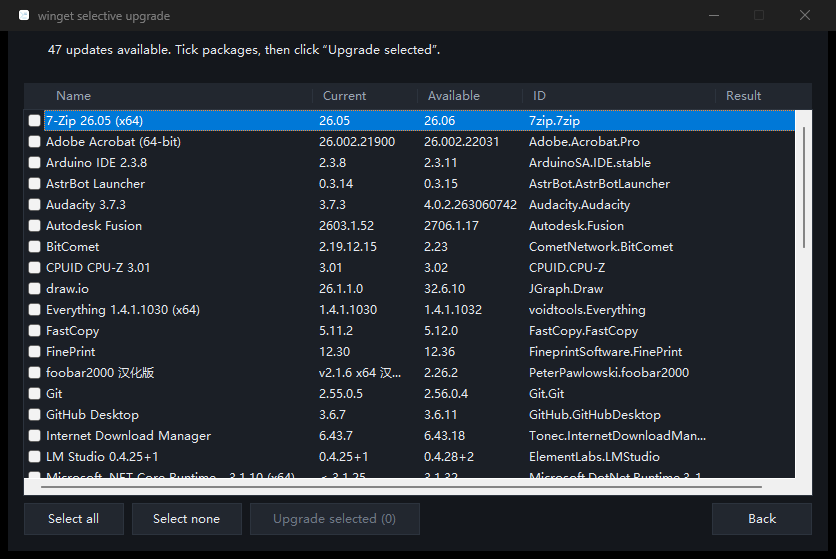
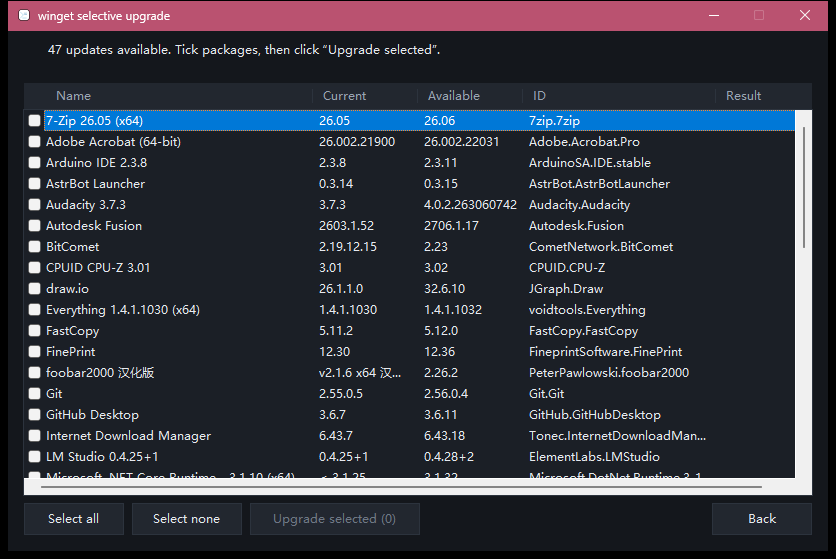
fix(ui): 设置区改 2x2 布局，修复主题重绘与升级后转圈残留

Changed region(s): [[0.0, 0.0, 1.0, 0.0608]]

diff --git a/src/main.rs b/src/main.rs
@@ -2248,13 +2248,16 @@ impl App {
             BS_PUSHBUTTON | WS_TABSTOP, 0, s(704), s(472), s(100), s(32), ID_BACK, font,
         );
 
-        // 设置区：主题分段按钮（只在初始界面显示）
+        // 设置区：2×2 表格。第一列靠左，第二列在右半区内居中。
+        let row1_y = s(400);
+        let row2_y = s(436);
+        let ctl_h = s(26);
+        let left_x = s(40);
+
+        // 第一列第一行：主题
         let theme_widths = [s(84), s(60), s(60), s(86), s(86)];
         let theme_gap = s(6);
-        let theme_label_w = s(56);
-        let theme_total: i32 =
-            theme_widths.iter().sum::<i32>() + theme_gap * 4 + theme_label_w + s(8);
-        let mut theme_x = (s(820) - theme_total) / 2;
+        let theme_label_w = s(72);
         let theme_label = make_child(
             hwnd,
             instance,
@@ -2262,14 +2265,14 @@ impl App {
             lang::t().theme_label,
             SS_LEFT | SS_NOPREFIX,
             0,
-            theme_x,
-            s(400),
+            left_x,
+            row1_y,
             theme_label_w,
-            s(26),
+            ctl_h,
             ID_THEME_LABEL,
             font,
         );
-        theme_x += theme_label_w + s(8);
+        let mut theme_x = left_x + theme_label_w + s(8);
         let mut theme_btns: [HWND; 5] = [std::ptr::null_mut(); 5];
         for (i, _choice) in theme::CHOICES.iter().enumerate() {
             theme_btns[i] = make_child(
@@ -2280,28 +2283,19 @@ impl App {
                 WS_TABSTOP,
                 0,
                 theme_x,
-                s(400),
+                row1_y,
                 theme_widths[i],
-                s(26),
+                ctl_h,
                 ID_THEME_BASE + i as i32,
                 font,
             );
             theme_x += theme_widths[i] + theme_gap;
         }
 
-        // 设置区第二行：语言 + 静默升级 + 关于（整行居中）
+        // 第一列第二行：语言
         let lang_widths = [s(90), s(64), s(80)];
         let lang_gap = s(6);
         let lang_label_w = s(72);
-        let silent_btn_w = s(48);
-        let silent_label_w = s(84);
-        let about_w = s(100);
-        let row_gap = s(24);
-        let lang_group =
-            lang_label_w + s(8) + lang_widths.iter().sum::<i32>() + lang_gap * 2;
-        let silent_group = silent_label_w + s(8) + silent_btn_w * 2 + lang_gap;
-        let row_total = lang_group + row_gap + silent_group + s(16) + about_w;
-        let mut row_x = (s(820) - row_total) / 2;
         let lang_label = make_child(
             hwnd,
             instance,
@@ -2309,14 +2303,14 @@ impl App {
             lang::t().lang_label,
             SS_LEFT | SS_NOPREFIX,
             0,
-            row_x,
-            s(436),
+            left_x,
+            row2_y,
             lang_label_w,
-            s(26),
+            ctl_h,
             ID_LANG_LABEL,
             font,
         );
-        row_x += lang_label_w + s(8);
+        let mut lang_x = left_x + lang_label_w + s(8);
         let mut lang_btns: [HWND; 3] = [std::ptr::null_mut(); 3];
         for (i, text) in lang::t().lang_labels.iter().enumerate() {
             lang_btns[i] = make_child(
@@ -2326,19 +2320,29 @@ impl App {
                 text,
                 WS_TABSTOP,
                 0,
-                row_x,
-                s(436),
+                lang_x,
+                row2_y,
                 lang_widths[i],
-                s(26),
+                ctl_h,
                 ID_LANG_BASE + i as i32,
                 font,
             );
-            row_x += lang_widths[i];
+            lang_x += lang_widths[i];
             if i + 1 < lang_widths.len() {
-                row_x += lang_gap;
+                lang_x += lang_gap;
             }
         }
-        row_x += row_gap;
+
+        // 第二列所在区域：右半区
+        let col2_left = s(552);
+        let col2_right = s(804);
+        let col2_w = col2_right - col2_left;
+
+        // 第二列第一行：静默升级
+        let silent_btn_w = s(48);
+        let silent_label_w = s(56);
+        let silent_group_w = silent_label_w + s(8) + silent_btn_w * 2 + lang_gap;
+        let silent_x = col2_left + (col2_w - silent_group_w) / 2;
         let silent_label = make_child(
             hwnd,
             instance,
@@ -2346,14 +2350,14 @@ impl App {
             lang::t().silent_label,
             SS_LEFT | SS_NOPREFIX,
             0,
-            row_x,
-            s(436),
+            silent_x,
+            row1_y,
             silent_label_w,
-            s(26),
+            ctl_h,
             ID_SILENT_LABEL,
             font,
         );
-        row_x += silent_label_w + s(8);
+        let silent_buttons_x = silent_x + silent_label_w + s(8);
         let silent_btns: [HWND; 2] = [
             make_child(
                 hwnd,
@@ -2362,10 +2366,10 @@ impl App {
                 lang::t().silent_off,
                 WS_TABSTOP,
                 0,
-                row_x,
-                s(436),
+                silent_buttons_x,
+                row1_y,
                 silent_btn_w,
-                s(26),
+                ctl_h,
                 ID_SILENT_OFF,
                 font,
             ),
@@ -2376,15 +2380,18 @@ impl App {
                 lang::t().silent_on,
                 WS_TABSTOP,
                 0,
-                row_x + silent_btn_w + lang_gap,
-                s(436),
+                silent_buttons_x + silent_btn_w + lang_gap,
+                row1_y,
                 silent_btn_w,
-                s(26),
+                ctl_h,
                 ID_SILENT_ON,
                 font,
             ),
         ];
-        row_x += silent_btn_w * 2 + lang_gap + s(16);
+
+        // 第二列第二行：关于
+        let about_w = s(100);
+        let about_x = col2_left + (col2_w - about_w) / 2;
         let btn_about = make_child(
             hwnd,
             instance,
@@ -2392,10 +2399,10 @@ impl App {
             lang::t().about,
             WS_TABSTOP,
             0,
-            row_x,
-            s(436),
+            about_x,
+            row2_y,
             about_w,
-            s(26),
+            ctl_h,
             ID_ABOUT,
             font,
         );
@@ -2513,7 +2520,21 @@ impl App {
             self.title,
             self.subtitle,
             self.status,
+            self.progress,
             self.theme_label,
+            self.theme_btns[0],
+            self.theme_btns[1],
+            self.theme_btns[2],
+            self.theme_btns[3],
+            self.theme_btns[4],
+            self.lang_label,
+            self.lang_btns[0],
+            self.lang_btns[1],
+            self.lang_btns[2],
+            self.silent_label,
+            self.silent_btns[0],
+            self.silent_btns[1],
+            self.btn_about,
             self.btn_view,
             self.btn_exit,
             self.btn_all,
@@ -2718,6 +2739,11 @@ impl App {
         }
         show(self.btn_about, init);
         enable(self.btn_about, init);
+        // 阶段切换时清掉残留的转圈像素（尤其是升级结束回到初始界面）
+        unsafe {
+            let rc = self.spinner_rect;
+            InvalidateRect(self.hwnd, &rc, 1);
+        }
         // 升级期间列表保持可用：可以滚动/查看进度，只是勾选会被锁定
         enable(self.list, list_mode || upgrading);
         enable(self.btn_all, list_mode);

diff --git a/src/lang.rs b/src/lang.rs
@@ -158,7 +158,7 @@ pub const EN: Strings = Strings {
     about_data: "Data comes from your local winget. The app has no network access and collects no data.",
     about_license: "License: MIT © 2026 LatteMint",
     about_close: "Close",
-    silent_label: "Silent mode",
+    silent_label: "Silent",
     silent_off: "Off",
     silent_on: "On",
     silent_warning: "Silent upgrade is on.\n\nSome installers may still show their own window, and UAC prompts cannot be skipped when administrator rights are required.\nIf a silent upgrade fails, it will be retried normally.\n\nContinue upgrading the {n} selected package(s)?",

diff --git a/docs/plan-v0.2.md b/docs/plan-v0.2.md
@@ -135,12 +135,23 @@
   致谢写入 `Code by Deepseek v4.1 Flash (1017)`；旧 README 备份为 `README.v0.1-backup.md` 并加入 `.gitignore`；
 - README 按 `lieflat-less-ai-tone` 流程检测：脚本层 + 语义层 12 条候选判读，语义四项均低于门槛；
   按建议拆了 4 处句内分号（L37/L105/L147/L149），其余 X 级清单/顿号清单/结构指标按规则保留；
-- 最终 exe：346,624 B（约 339 KiB），版本 0.2.0.0；桌面 `winget-picker.exe` 与 `dist/winget-picker.exe` 已更新；
+- 最终 exe：347,136 B（约 339 KiB），版本 0.2.0.0；桌面 `winget-picker.exe` 与 `dist/winget-picker.exe` 已更新；
 - 发布包：`dist/winget-picker-0.2.0-win64.zip`（exe + README + LICENSE）；
 - 真实 winget 最终验证：25 个可更新项正常列出（`screens-real/`）；真实升级未执行；
 - 最终回归：假 winget 全流程 / 升级中 UI / 主题 / 语言 / 静默升级 / Spinner / 单测 6/6 全部通过；
 - 最终截图重新生成：`screens/`、`screens-progress/`、`screens-themes/`、`screens-real/`；
 - 提交：README、plan、最终截图与 .gitignore；打本地 tag `v0.2.0`。
+
+### 0.2.0 界面修正（2026-11-26，发布前）
+
+- 设置区从两行横排改为 **2×2 布局**：第一列主题/语言靠左，第二列静默升级/关于在右半区居中；主题与语言标签宽度统一，静默标签与按钮间距缩小；
+- 修复主题切换后底部标签、按钮不重绘（补全 `apply_theme_visual` 的控件失效列表）；
+- 修复升级结束回到初始界面后残留转圈（`apply_phase` 阶段切换时失效转圈区域）；
+- 测试补充：
+  - `gui_test_theme.ps1` 新增深色→浅色→深色重绘断言与截图；
+  - `gui_test_spinner.ps1` 新增升级结束返回主界面后转圈清除断言；
+  - GUI 测试统一固定主题/语言/静默环境变量，避免用户本地 ini 干扰；
+- 重新构建 exe：347,136 B，重新生成截图与发布包。
 
 ### P1（本轮不做，记录）
 
